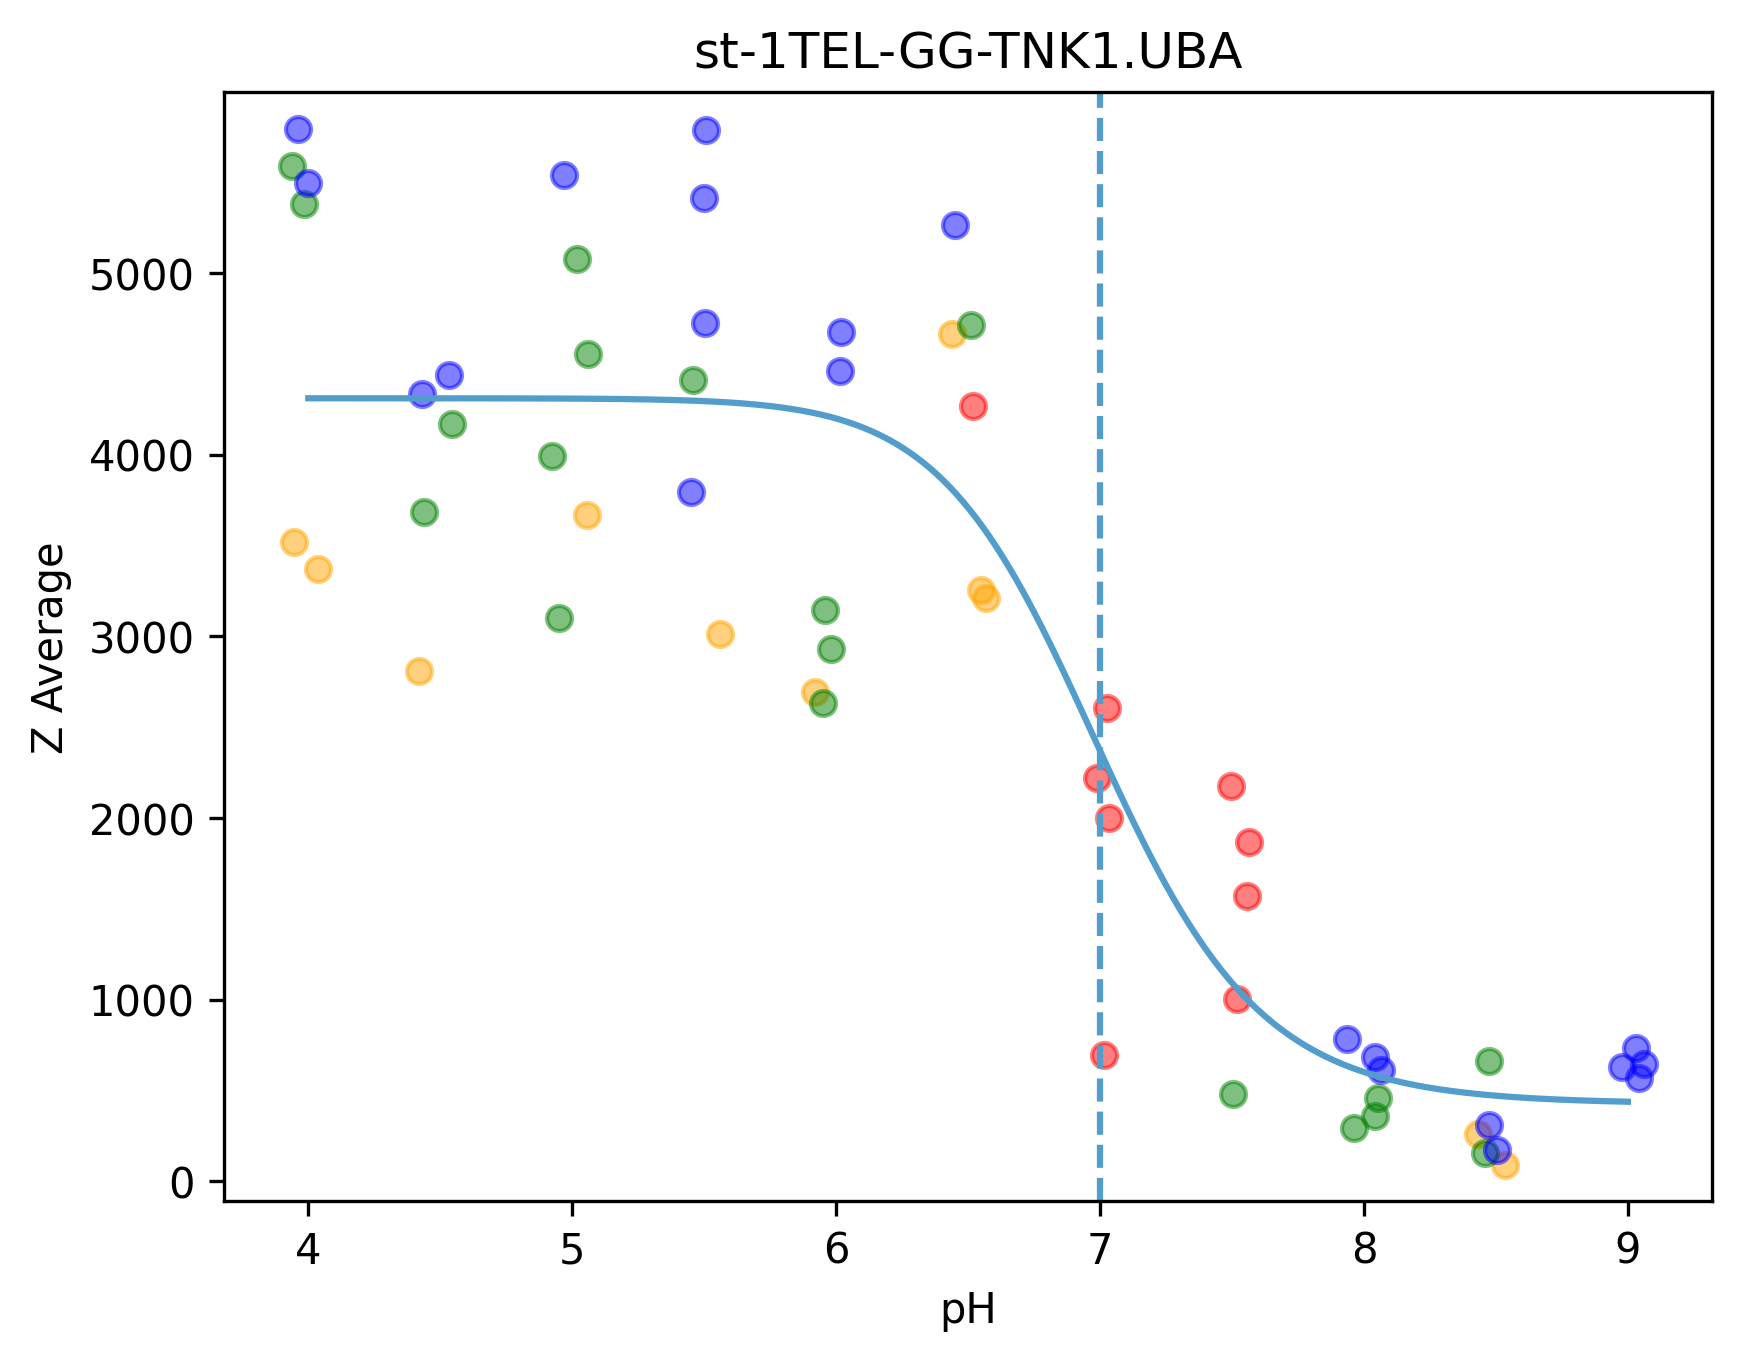
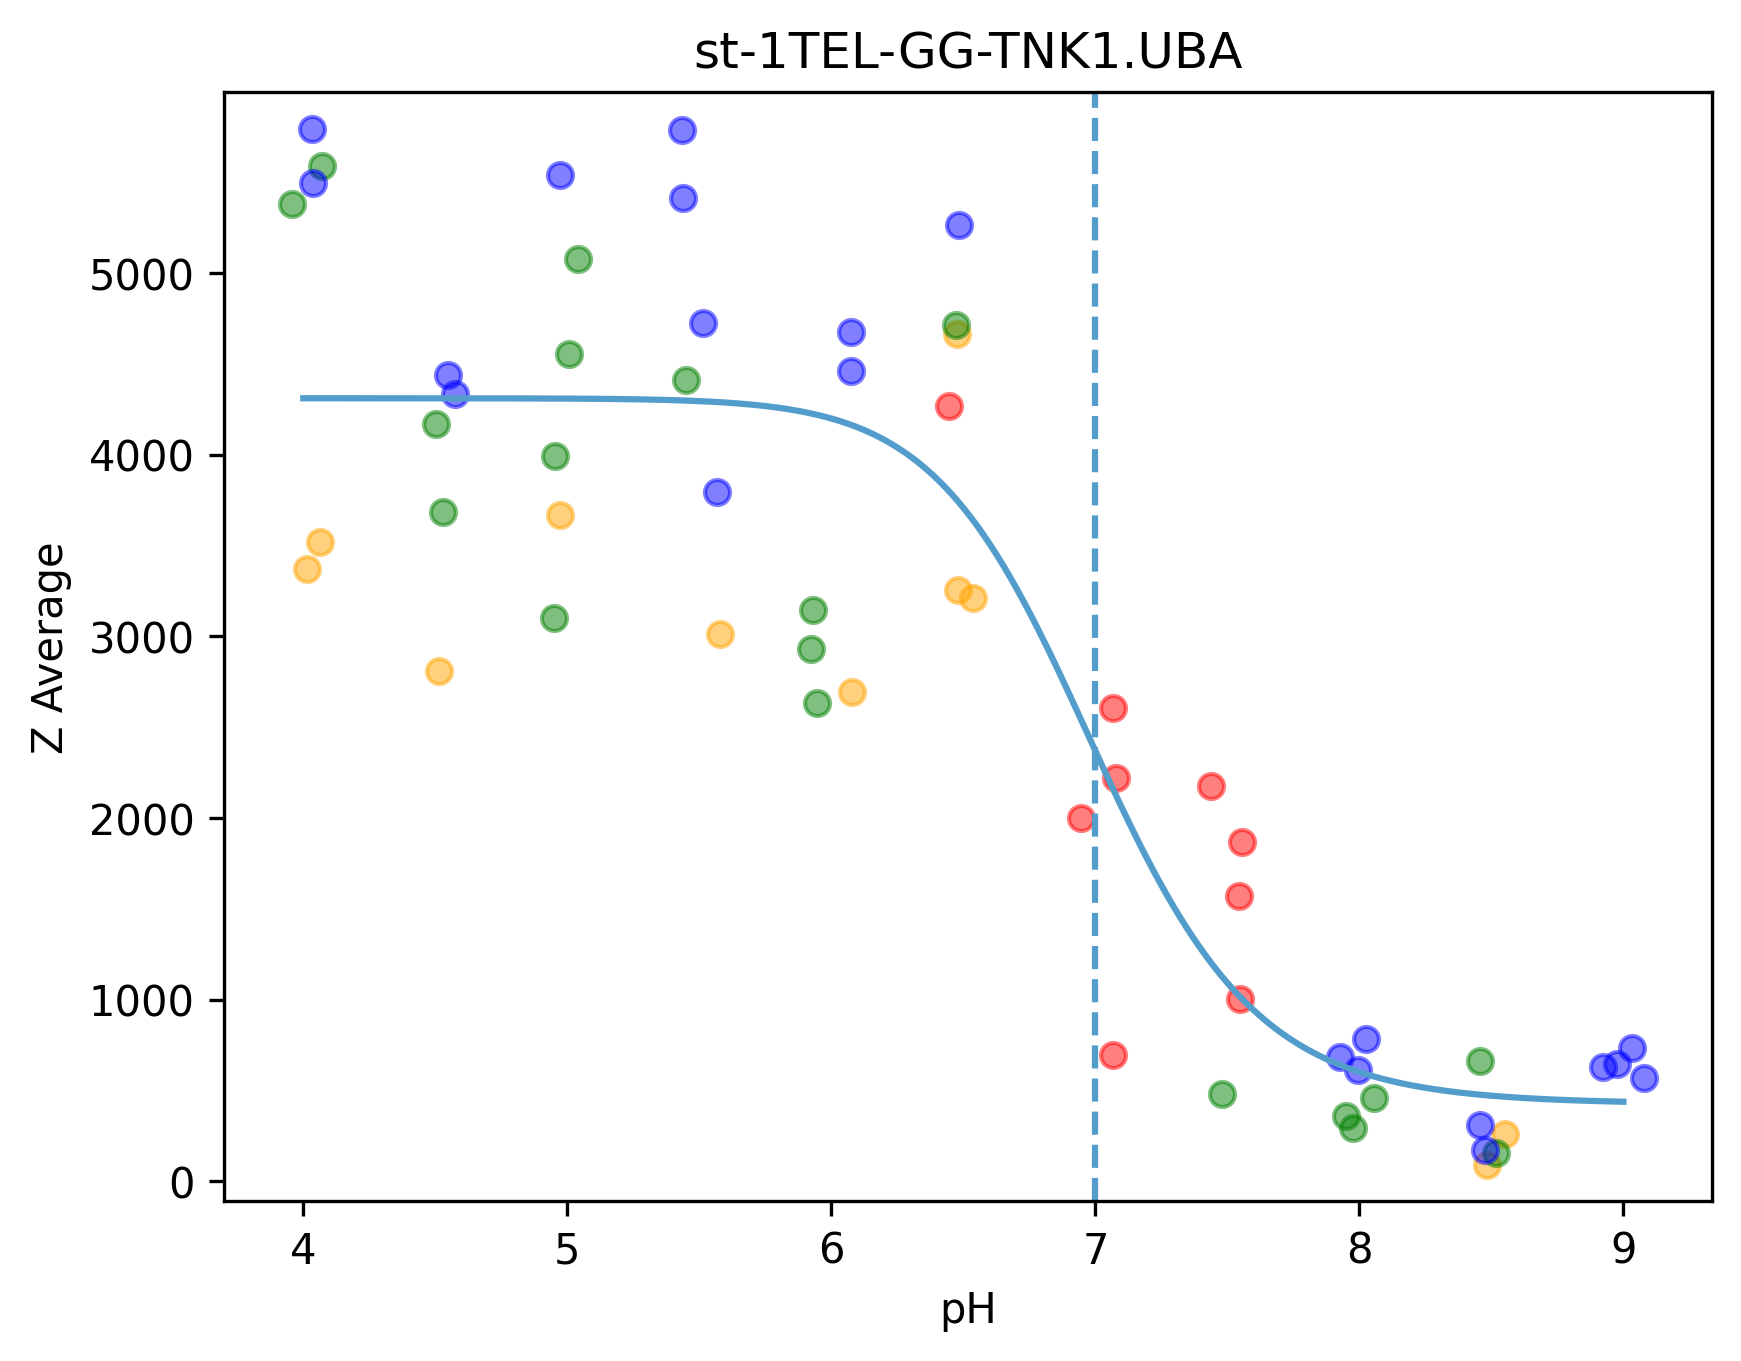
changes to DLS processing for time-based analysis

diff --git a/process_dls.py b/process_dls.py
@@ -20,7 +20,7 @@ with open(CSV_PATH, newline="", encoding="utf-8-sig") as csvfile:
     reader = csv.DictReader(csvfile)
     for row in reader:
         protein_construct = row['Protein'].strip()
-        time = row['Time'].strip()
+        time = float(row['Time'].strip())
         pH = float(row['pH'].strip())
         Z_avg = float(row['Z Avg'].strip())
         PdI = float(row['PdI'].strip())
@@ -43,81 +43,125 @@ def shade_list(cmap, n, lo=0.25, hi=0.9):
 blue_shades = shade_list(plt.cm.Blues, 1)
 orange_shades = shade_list(plt.cm.Oranges, 1)
 
-def statisticize(protein_list:list,name:str = 'none', control_variable:str = 'Time',PdI_cutoff:float = 0.0,averaging:bool = False):
+def statisticize(protein_list:list,name:str = 'none', control_variable:str = 'None',PdI_cutoff:float = 0.0,averaging:bool = False):
     handles = []
     ylims = []
-    if control_variable == 'time':
-        pass
     for protein in protein_list:
         if 'dt' in protein:
             color = orange_shades[0]
         else:
             color = blue_shades[0]
         pH_linspace = np.linspace(4.0, 9.0, 400)
-        paired_z_p_p = [(Z_avg,pH,PdI) for Z_avg, pH, PdI in zip(master_protein_dict[protein]['Z_avg'],master_protein_dict[protein]['pH'],master_protein_dict[protein]['PdI']) if PdI<PdI_cutoff]
-        #print(f'paired_z_p_p:{paired_z_p_p}')
-        Z_avgs, pHs, PdIs = map(list, zip(*paired_z_p_p))
+        paired_z_p_p_t = [(Z_avg,pH,PdI,time) for Z_avg, pH, PdI, time in zip(master_protein_dict[protein]['Z_avg'],master_protein_dict[protein]['pH'],master_protein_dict[protein]['PdI'],master_protein_dict[protein]['time']) if PdI<PdI_cutoff]
+        #print(f'paired_z_p_p:{paired_z_p_p_t}')
+        Z_avgs, pHs, PdIs, times = map(list, zip(*paired_z_p_p_t))
         Z_avgs_avgs = []
         pHs_avgs_per_Z_avg = []
-        lower_ses = []
-        upper_ses = []
-        for pH in master_pHs:
-            #if averaging
-            zs = []
-            for pair in paired_z_p_p:
-                if pair[1]==pH:
-                    zs.append(pair[0])
-            #standard errors per point
-            sd = np.std(zs, ddof=1)
-            td = t.ppf(0.975, df=6 - 1)
-            error = sd * td
-            lower_ses.append(np.mean(zs) - error)
-            upper_ses.append(np.mean(zs) + error)
-            Z_avgs_avgs.append(np.mean(zs))
-            pHs_avgs_per_Z_avg.append(pH)
-        #print(f'Z_avgs_avgs: {Z_avgs_avgs}')
-        def pH_to_absorbance_model_4pl(pH,upper_asymptote,Hill_slope,inflection_point,lower_asymptote):
-            return lower_asymptote + (upper_asymptote - lower_asymptote) / (1 + (pH / inflection_point)**Hill_slope)
-        initial_guesses = [max(Z_avgs), -4, 5.5, min(Z_avgs)]
-        try:                
-            best_fit_parameters, _ = None,None
-            if averaging:
-                best_fit_parameters, _ = curve_fit(pH_to_absorbance_model_4pl,pHs_avgs_per_Z_avg,Z_avgs_avgs,p0=initial_guesses)
-            else:
-                best_fit_parameters, _ = curve_fit(pH_to_absorbance_model_4pl,pHs,Z_avgs,p0=initial_guesses)
-            inflection_value = round(best_fit_parameters[2],1)
-            print(f'Inflection point for {protein}: {inflection_value}')
-            axvline_handle = plt.axvline(inflection_value, color=color, linestyle="--")
-            handles.append(axvline_handle)
-            plot_handle = plt.plot(pH_linspace,pH_to_absorbance_model_4pl(pH_linspace, *best_fit_parameters),color=color,linestyle="-")
-            handles.append(plot_handle)
-        except Exception as e:
-            print(e)
         jittered_pHs = np.array(pHs) + np.random.uniform(-jitter_strength, jitter_strength,len(pHs))
-        if control_variable=='PdI_range':
-            for PdI_range in range(len(master_PdI_ranges)-1):
-                Z_avgs_in_range_paired = [(Z_avg, jittered_pH) for Z_avg, jittered_pH, PdI in zip(Z_avgs,jittered_pHs, PdIs) if master_PdI_ranges[PdI_range]<PdI<master_PdI_ranges[PdI_range+1]]
-                Z_avgs_in_range, jittered_pHs_in_range = map(list, zip(*Z_avgs_in_range_paired))
-                scatter_handle = plt.scatter(jittered_pHs_in_range, Z_avgs_in_range, marker='o', color=master_PdI_colors[PdI_range], alpha=0.5)
-                handles.append(scatter_handle)
-        else:
+        if control_variable!='time':
+            lower_ses = []
+            upper_ses = []
+            for pH in master_pHs:
+                #if averaging
+                zs = []
+                for pair in paired_z_p_p_t:
+                    if pair[1]==pH:
+                        zs.append(pair[0])
+                #standard errors per point
+                sd = np.std(zs, ddof=1)
+                td = t.ppf(0.975, df=6 - 1)
+                error = sd * td
+                lower_ses.append(np.mean(zs) - error)
+                upper_ses.append(np.mean(zs) + error)
+                Z_avgs_avgs.append(np.mean(zs))
+                pHs_avgs_per_Z_avg.append(pH)
+            #print(f'Z_avgs_avgs: {Z_avgs_avgs}')
+            def pH_to_absorbance_model_4pl(pH,upper_asymptote,Hill_slope,inflection_point,lower_asymptote):
+                return lower_asymptote + (upper_asymptote - lower_asymptote) / (1 + (pH / inflection_point)**Hill_slope)
+            initial_guesses = [max(Z_avgs), -4, 5.5, min(Z_avgs)]
+            try:                
+                best_fit_parameters, _ = None,None
+                if averaging:
+                    best_fit_parameters, _ = curve_fit(pH_to_absorbance_model_4pl,pHs_avgs_per_Z_avg,Z_avgs_avgs,p0=initial_guesses)    
+                else:
+                    best_fit_parameters, _ = curve_fit(pH_to_absorbance_model_4pl,pHs,Z_avgs,p0=initial_guesses)
+                inflection_value = round(best_fit_parameters[2],1)
+                print(f'Inflection point for {protein}: {inflection_value}')
+                axvline_handle = plt.axvline(inflection_value, color=color, linestyle="--")
+                handles.append(axvline_handle)
+                plot_handle = plt.plot(pH_linspace,pH_to_absorbance_model_4pl(pH_linspace, *best_fit_parameters),color=color,linestyle="-")
+                handles.append(plot_handle)
+            except Exception as e:
+                print(e)
+            if control_variable=='PdI_range':
+                for PdI_range in range(len(master_PdI_ranges)-1):
+                    Z_avgs_in_range_paired = [(Z_avg, jittered_pH) for Z_avg, jittered_pH, PdI in zip(Z_avgs,jittered_pHs, PdIs) if master_PdI_ranges[PdI_range]<PdI<master_PdI_ranges[PdI_range+1]]
+                    Z_avgs_in_range, jittered_pHs_in_range = map(list, zip(*Z_avgs_in_range_paired))
+                    scatter_handle = plt.scatter(jittered_pHs_in_range, Z_avgs_in_range, marker='o', color=master_PdI_colors[PdI_range], alpha=0.5)
+                    handles.append(scatter_handle)            
+            else:
+                    scatter_handle = plt.scatter(jittered_pHs, Z_avgs, marker='o', color=color, alpha=0.2)
+                    handles.append(scatter_handle)
+            plt.xlabel(f'pH')
+            plt.ylabel(f'Z Average')
+            #print(f'np.std(Z_avgs):{np.std(Z_avgs)}')
+            #plt.fill_between(master_pHs,lower_ses, upper_ses,color=color, alpha=0.12)
+            z_avgs_minus_outliers = [Z_avg for Z_avg in Z_avgs if (np.mean(Z_avgs)-3*np.std(Z_avgs))<Z_avg<(np.mean(Z_avgs)+3*np.std(Z_avgs))]
+            ylims.append(np.max(z_avgs_minus_outliers)+200)
+            ylims.append(np.min(z_avgs_minus_outliers)-200)
+            if control_variable=='PdI_range':
+                plt.ylim(top=max(ylims))
+                plt.ylim(bottom=min(ylims))
+                plt.title(f'{name}')
+                plt.savefig(f"{BASE_DIR}/dls_figures/PdI_ranges_{name}.png",dpi=300,bbox_inches="tight")
+                plt.show()
+                plt.close()
+                return
+        elif control_variable=='time':
+            Z_avgs_time_one = [(Z_avg, pH) for Z_avg, pH, time in zip(Z_avgs,pHs,times) if time in [0.1,0.2,0.3]]
+            Z_avgs_time_two = [(Z_avg, pH) for Z_avg, pH, time in zip(Z_avgs,pHs,times) if time in [10.1,10.2,10.3]]
+            times = [Z_avgs_time_one,Z_avgs_time_two]
+            for time in range(len(times)):
+                lower_ses = []
+                upper_ses = []
+                for pH in master_pHs:
+                    zs = []
+                    for pair in times[time]:
+                        if pair[1]==pH:
+                            zs.append(pair[0])
+                    #standard errors per point
+                    sd = np.std(zs, ddof=1)
+                    td = t.ppf(0.975, df=6 - 1)
+                    error = sd * td
+                    lower_ses.append(np.mean(zs) - error)
+                    upper_ses.append(np.mean(zs) + error)
+                def pH_to_absorbance_model_4pl(pH,upper_asymptote,Hill_slope,inflection_point,lower_asymptote):
+                    return lower_asymptote + (upper_asymptote - lower_asymptote) / (1 + (pH / inflection_point)**Hill_slope)
+                initial_guesses = [max(Z_avgs), -4, 5.5, min(Z_avgs)]
+                try:                
+                    best_fit_parameters, _ = None,None
+                    if averaging:
+                        best_fit_parameters, _ = curve_fit(pH_to_absorbance_model_4pl,pHs_avgs_per_Z_avg,Z_avgs_avgs,p0=initial_guesses)    
+                    else:
+                        best_fit_parameters, _ = curve_fit(pH_to_absorbance_model_4pl,pHs,Z_avgs,p0=initial_guesses)
+                    inflection_value = round(best_fit_parameters[2],1)
+                    print(f'Inflection point for {protein}: {inflection_value}')
+                    axvline_handle = plt.axvline(inflection_value, color=color, linestyle="--")
+                    handles.append(axvline_handle)
+                    plot_handle = plt.plot(pH_linspace,pH_to_absorbance_model_4pl(pH_linspace, *best_fit_parameters),color=color,linestyle="-")
+                    handles.append(plot_handle)
+                except Exception as e:
+                    print(e)
+                jittered_pHs = np.array(pHs) + np.random.uniform(-jitter_strength, jitter_strength,len(pHs))
                 scatter_handle = plt.scatter(jittered_pHs, Z_avgs, marker='o', color=color, alpha=0.2)
                 handles.append(scatter_handle)
-        plt.xlabel(f'pH')
-        plt.ylabel(f'Z Average')
-        #print(f'np.std(Z_avgs):{np.std(Z_avgs)}')
-        #plt.fill_between(master_pHs,lower_ses, upper_ses,color=color, alpha=0.12)
-        z_avgs_minus_outliers = [Z_avg for Z_avg in Z_avgs if (np.mean(Z_avgs)-3*np.std(Z_avgs))<Z_avg<(np.mean(Z_avgs)+3*np.std(Z_avgs))]
-        ylims.append(np.max(z_avgs_minus_outliers)+200)
-        ylims.append(np.min(z_avgs_minus_outliers)-200)
-        if control_variable=='PdI_range':
-            plt.ylim(top=max(ylims))
-            plt.ylim(bottom=min(ylims))
-            plt.title(f'{name}')
-            plt.savefig(f"{BASE_DIR}/dls_figures/PdI_ranges_{name}.png",dpi=300,bbox_inches="tight")
-            plt.show()
-            plt.close()
-            return            
+                plt.xlabel(f'pH')
+                plt.ylabel(f'Z Average')
+                print(f'np.std(Z_avgs):{np.std(Z_avgs)}')
+                plt.fill_between(master_pHs,lower_ses, upper_ses,color=color, alpha=0.12)
+                z_avgs_minus_outliers = [Z_avg for Z_avg in Z_avgs if (np.mean(Z_avgs)-3*np.std(Z_avgs))<Z_avg<(np.mean(Z_avgs)+3*np.std(Z_avgs))]
+                ylims.append(np.max(z_avgs_minus_outliers)+200)
+                ylims.append(np.min(z_avgs_minus_outliers)-200)
     plt.ylim(top=max(ylims))
     plt.ylim(bottom=min(ylims))
     plt.title(f'{name}')
@@ -126,9 +170,13 @@ def statisticize(protein_list:list,name:str = 'none', control_variable:str = 'Ti
     plt.show()
     plt.close()
 
-statisticize(['dt-1TEL-GG-TNK1.UBA','st-1TEL-GG-TNK1.UBA'],name='1TEL-GG-TNK1.UBA',PdI_cutoff=0.8,averaging=False)
-statisticize(['dt-1TEL-sr-TNK1.UBA','st-1TEL-sr-TNK1.UBA'],name='1TEL-sr-TNK1.UBA',PdI_cutoff=0.8,averaging=False)
-statisticize(['st-1TEL-GG-TNK1.UBA'],name='st-1TEL-GG-TNK1.UBA',PdI_cutoff=0.8,averaging=False,control_variable='PdI_range')
-statisticize(['st-1TEL-sr-TNK1.UBA'],name='st-1TEL-sr-TNK1.UBA',PdI_cutoff=0.8,averaging=False,control_variable='PdI_range')
-statisticize(['dt-1TEL-GG-TNK1.UBA'],name='dt-1TEL-GG-TNK1.UBA',PdI_cutoff=0.8,averaging=False,control_variable='PdI_range')
-statisticize(['dt-1TEL-sr-TNK1.UBA'],name='dt-1TEL-sr-TNK1.UBA',PdI_cutoff=0.8,averaging=False,control_variable='PdI_range')
+#statisticize(['dt-1TEL-GG-TNK1.UBA','st-1TEL-GG-TNK1.UBA'],name='1TEL-GG-TNK1.UBA',PdI_cutoff=0.8,averaging=False)
+#statisticize(['dt-1TEL-sr-TNK1.UBA','st-1TEL-sr-TNK1.UBA'],name='1TEL-sr-TNK1.UBA',PdI_cutoff=0.8,averaging=False)
+#statisticize(['st-1TEL-GG-TNK1.UBA'],name='st-1TEL-GG-TNK1.UBA',PdI_cutoff=0.8,averaging=False,control_variable='PdI_range')
+#statisticize(['st-1TEL-sr-TNK1.UBA'],name='st-1TEL-sr-TNK1.UBA',PdI_cutoff=0.8,averaging=False,control_variable='PdI_range')
+#statisticize(['dt-1TEL-GG-TNK1.UBA'],name='dt-1TEL-GG-TNK1.UBA',PdI_cutoff=0.8,averaging=False,control_variable='PdI_range')
+#statisticize(['dt-1TEL-sr-TNK1.UBA'],name='dt-1TEL-sr-TNK1.UBA',PdI_cutoff=0.8,averaging=False,control_variable='PdI_range')
+statisticize(['st-1TEL-GG-TNK1.UBA'],name='st-1TEL-GG-TNK1.UBA',PdI_cutoff=0.8,averaging=False,control_variable='time')
+statisticize(['st-1TEL-sr-TNK1.UBA'],name='st-1TEL-sr-TNK1.UBA',PdI_cutoff=0.8,averaging=False,control_variable='time')
+statisticize(['dt-1TEL-GG-TNK1.UBA'],name='dt-1TEL-GG-TNK1.UBA',PdI_cutoff=0.8,averaging=False,control_variable='time')
+statisticize(['dt-1TEL-sr-TNK1.UBA'],name='dt-1TEL-sr-TNK1.UBA',PdI_cutoff=0.8,averaging=False,control_variable='time')
